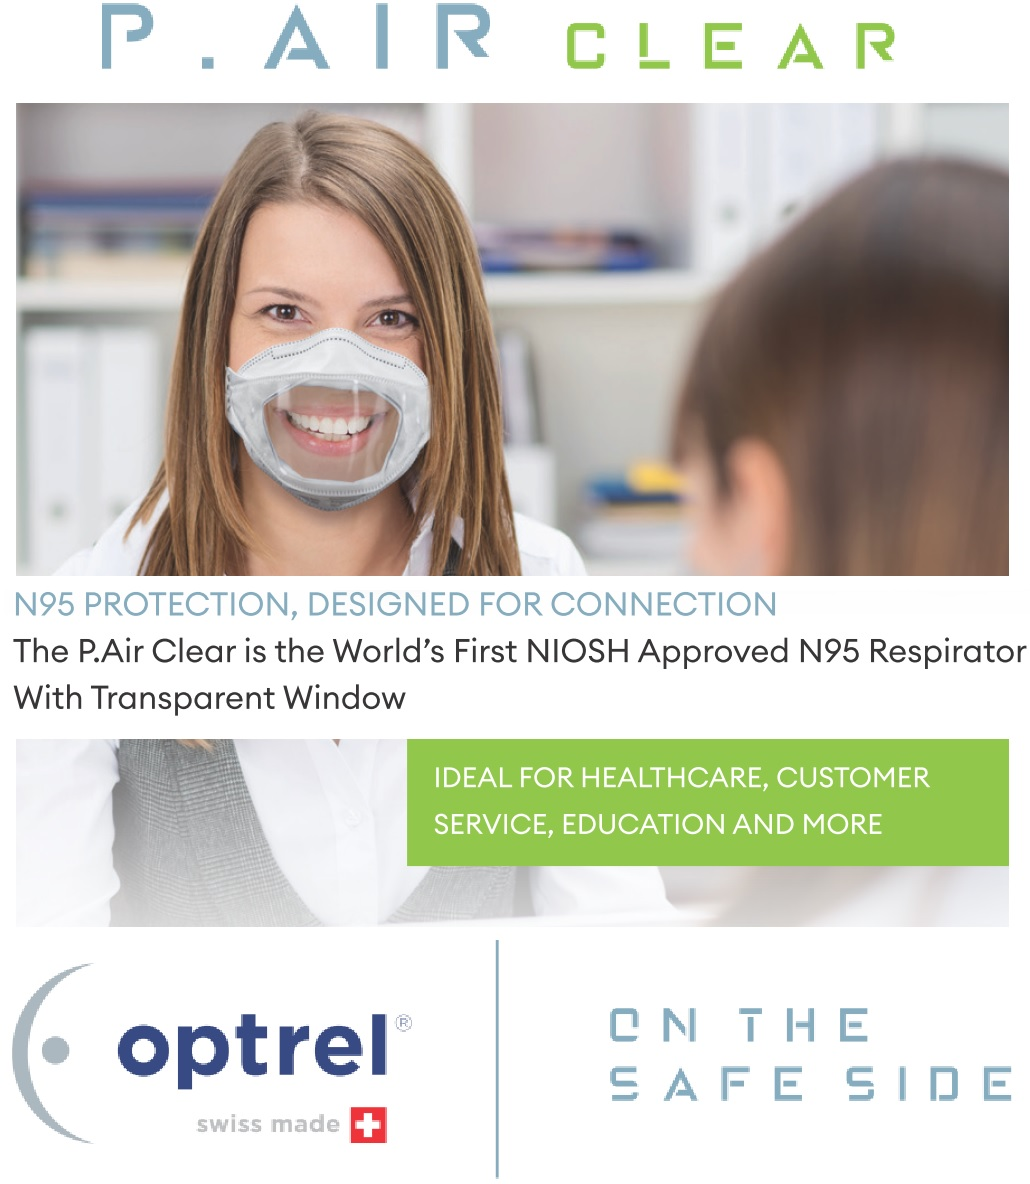
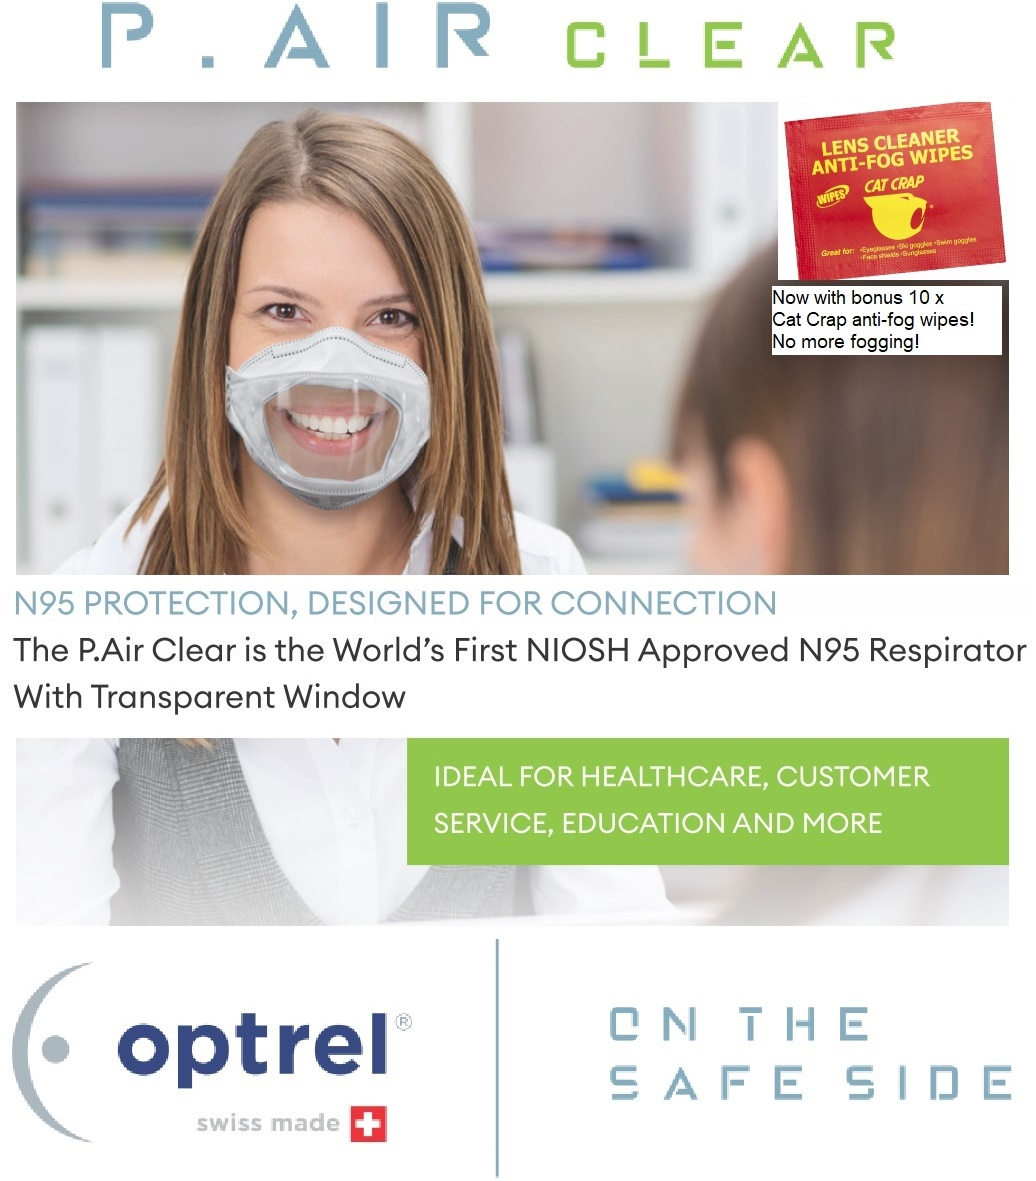
Bonus Cat Crap for Optrel
Changed image and text to include bonus 10x free Cat Crap wipes for Optrel Box

diff --git a/src/views/Store.js b/src/views/Store.js
@@ -351,7 +351,7 @@ const BuyPage = () => {
         />
 
 		<StoreItem
-          imgWidth="1030"
+          imgWidth="1036"
           imgAlt="Optrel P.Air Clear N95 Mask with Transparent Window"
           imgUrl={pAirClearImageUrl}
           title="POptrel P.Air Clear N95 Mask with Transparent Window"
@@ -362,7 +362,7 @@ const BuyPage = () => {
 			   Perfect for teachers, nurses, dentists, and anyone who wants to show their
 			   smile and have their words be more accessible for those who lip read!
 			   Box of 20 (4 packs of 5).
-			  (Now in stock!)
+			  BONUS! Now with 10 FREE Cat Crap anti-fog wipes! No more fogging!
             </>
           }
           dataSheetUrl={PAirClearData}
